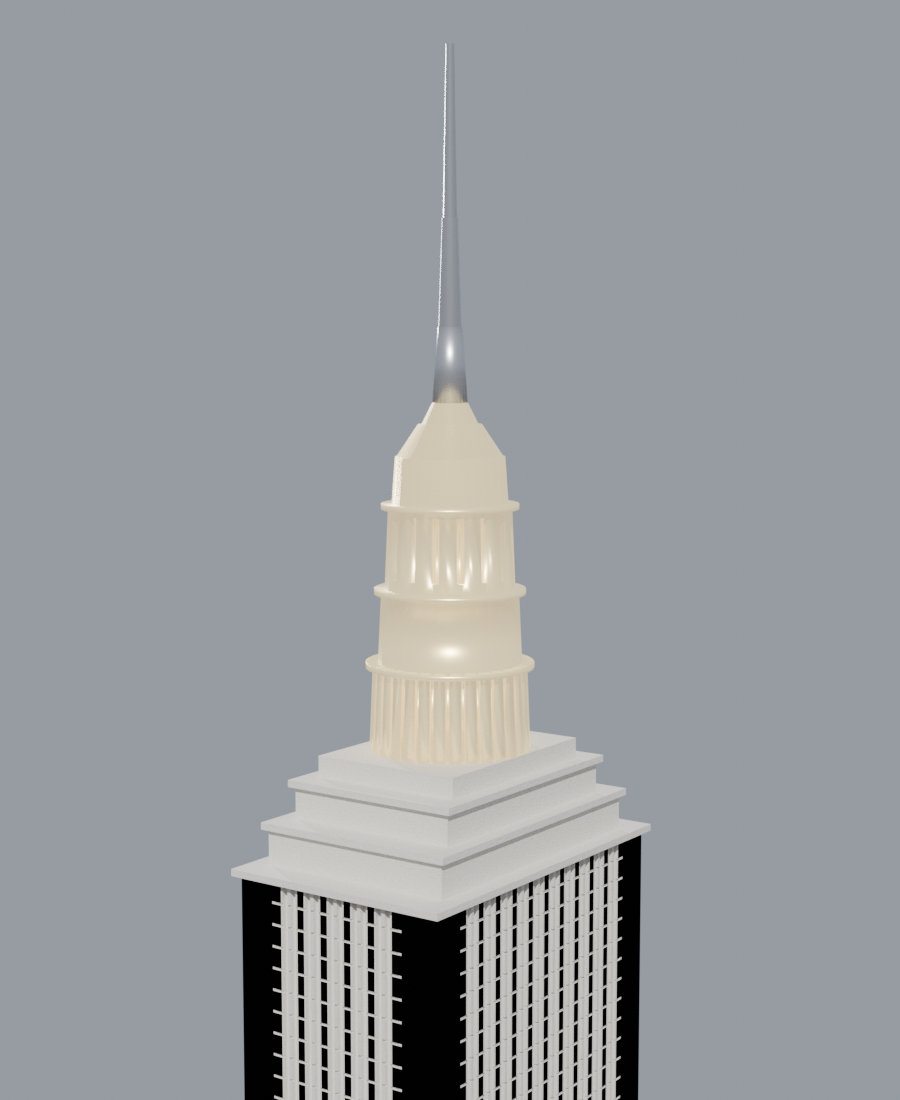
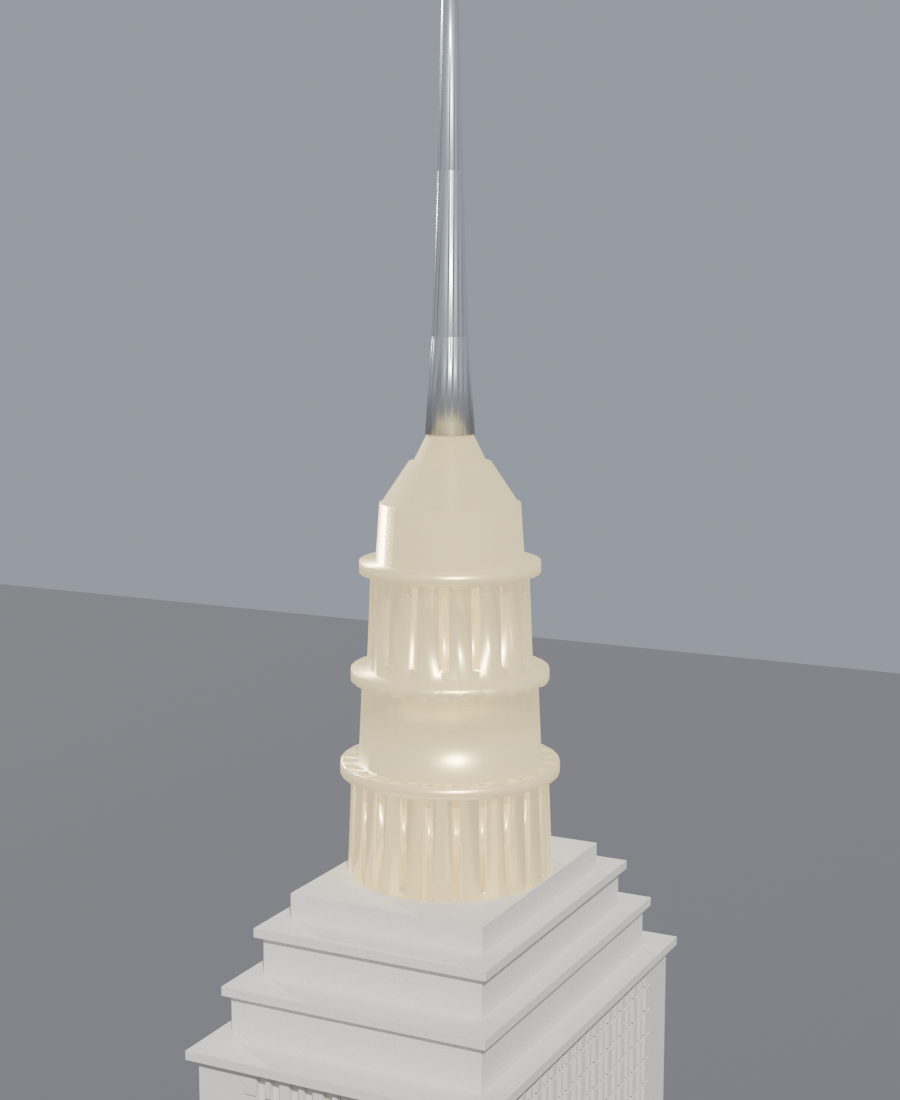
Add crown close-up and night renders (1:350)
render_extra.py: auto-framed night (lit crown) + crown/mast close-up views.

Claude-Session: https://claude.ai/code/session_013p1WHz73AzfRywvmzbP4Fo

Changed region(s): [[0.0, 0.0, 1.0, 1.0]]

diff --git a/model/render_extra.py b/model/render_extra.py
@@ -1,0 +1,31 @@
+#!/usr/bin/env python3
+"""Extra views of the model: night (lit crown) + crown close-up.
+Run:  blender -b -P render_extra.py   (auto-frames at any scale)"""
+import sys
+sys.path.insert(0, "/home/user/kg/model")
+import bpy
+from mathutils import Vector
+import render as R
+
+def bounds():
+    objs = [o for o in bpy.data.objects if o.type == 'MESH' and o.name != 'Plane']
+    mn = Vector((1e18, 1e18, 1e18)); mx = Vector((-1e18, -1e18, -1e18))
+    for o in objs:
+        for v in o.bound_box:
+            w = o.matrix_world @ Vector(v)
+            for i in range(3):
+                mn[i] = min(mn[i], w[i]); mx[i] = max(mx[i], w[i])
+    return mn, mx
+
+# --- night, full tower, glowing crown ---
+R.setup_tower(night=True)
+mn, mx = bounds(); ctr = (mn + mx) * 0.5; H = mx[2] - mn[2]; d = 1.6 * H
+R.set_cam((ctr[0] + 0.5*d, ctr[1] - 0.8*d, ctr[2] + 0.28*d), (ctr[0], ctr[1], ctr[2]), 39)
+R.render("render_night.png", 900, 1350, 200)
+
+# --- day, crown / mooring-mast close-up ---
+R.setup_tower(night=False)
+mn, mx = bounds(); H = mx[2] - mn[2]
+tgt = Vector((0, 0, mx[2] - 0.17 * H)); d = 0.55 * H
+R.set_cam((tgt[0] + 0.45*d, tgt[1] - 0.9*d, tgt[2] + 0.16*d), (tgt[0], tgt[1], tgt[2]), 33)
+R.render("render_crown.png", 900, 1100, 200)
